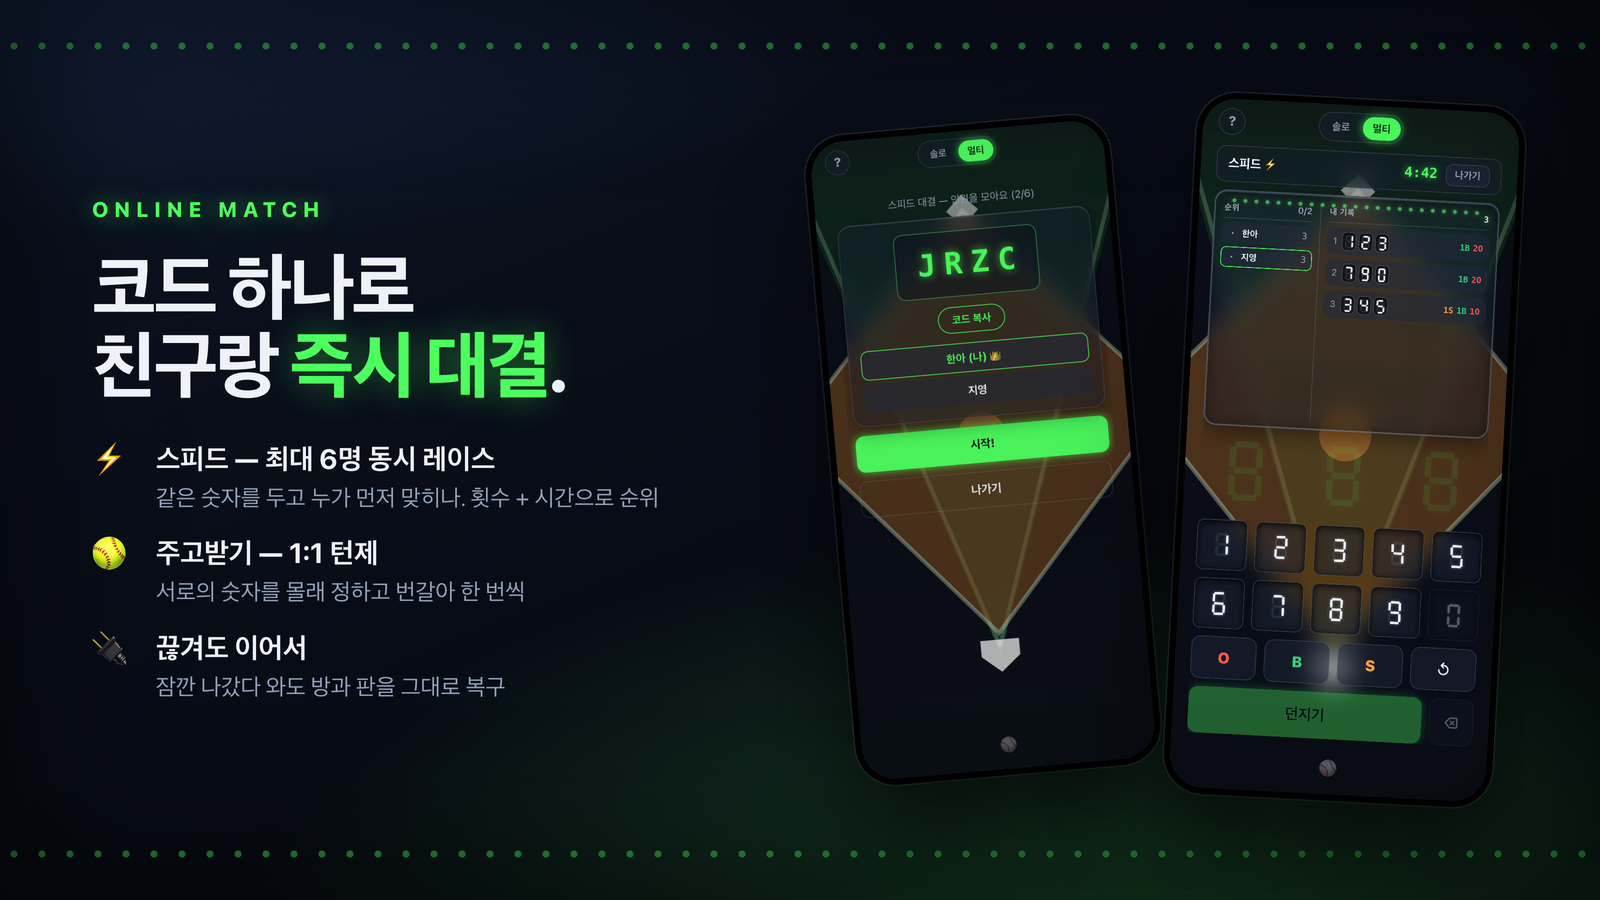
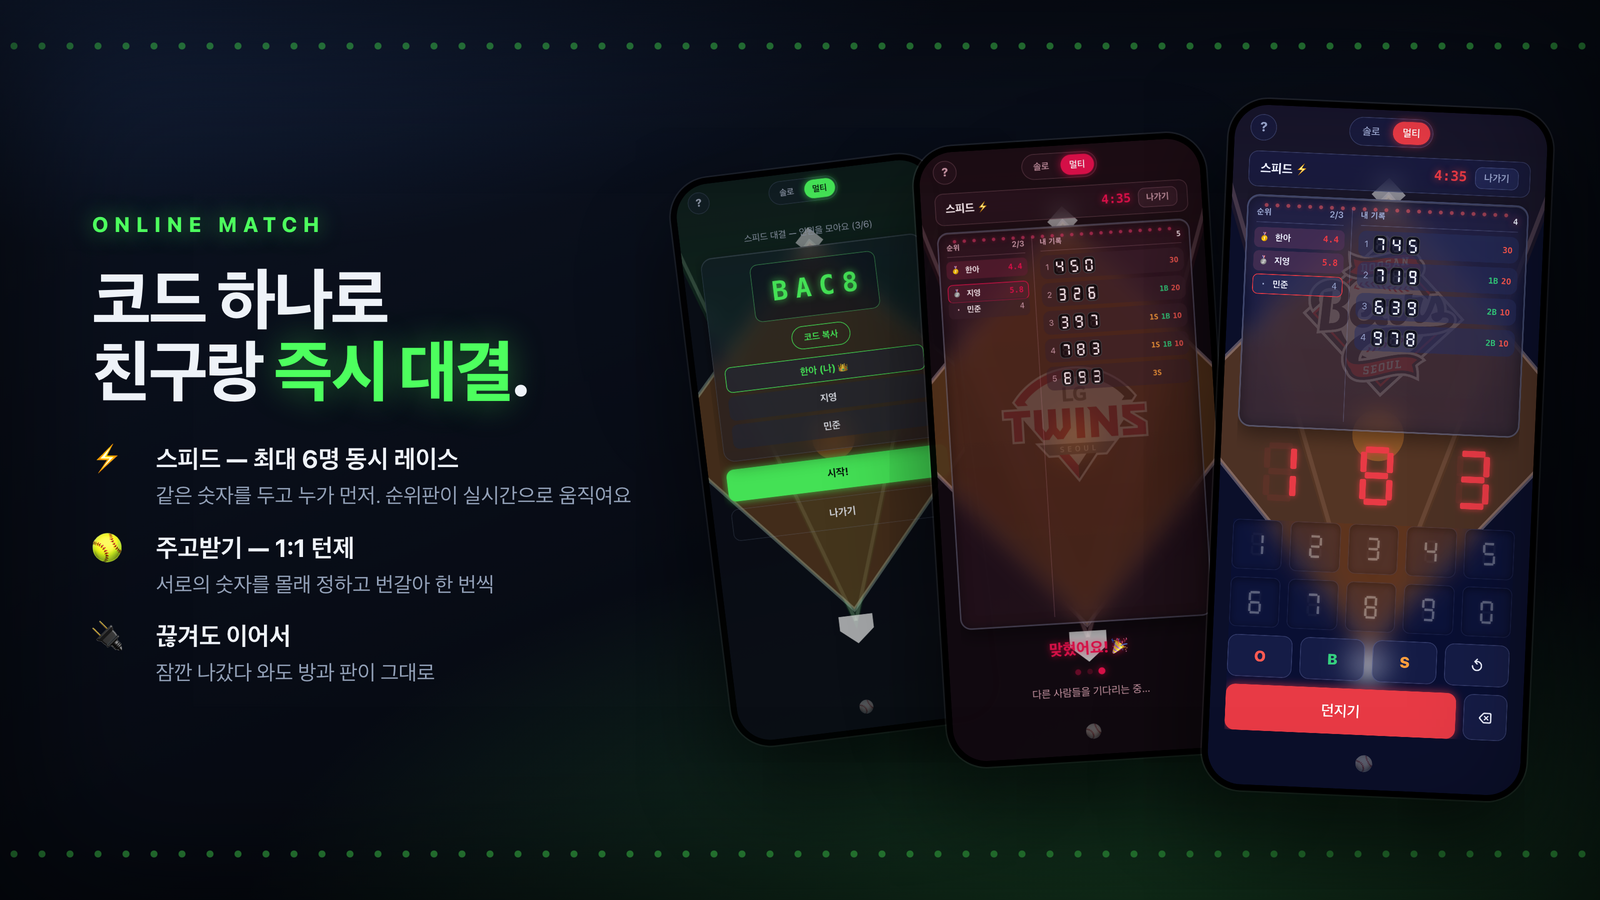
에셋: 온라인 카드를 3인 대전 + 테마 다른 두 화면으로 교체
- 3명(한아/지영/민준) 실제 스피드 대전을 돌려 순위판이 채워진 상태로 캡처
- 지영=LG 테마(완주·🥈), 민준=두산 테마(추격 중), 로비는 다크
- store-assets: 08-online-lobby / 09-online-speed-lg / 10-online-speed-doosan

Claude-Session: https://claude.ai/code/session_01PYKM6378HJLRYaUMnYg8Vi

diff --git a/store-assets/twitter/THREAD.md b/store-assets/twitter/THREAD.md
@@ -105,10 +105,11 @@ homerun-bb.vercel.app
 | --- | --- |
 | `01-hero.png` | 타이틀 + 폰 3대(솔로·멀티 메뉴·온라인 스피드) |
 | `02-rule.png` | S·B·O 규칙 + 전광판 기록 클로즈업 |
-| `03-online.png` | 온라인 대결(방 코드 로비 + 스피드 레이스) |
+| `03-online.png` | 온라인 대결 3인(방 코드 로비 + LG 테마 완주 + 두산 테마 추격) |
 | `04-theme.png` | 두산 / LG 구단 테마 이스터에그 |
 | `05-detail.png` | 설정·튜토리얼(자릿수·시도·메모·힌트) |
 | `06-cta.png` | 설치 유도 + 주소 |
 
 원본 스크린샷(1206×2622)은 상위 `store-assets/` 에 —
-`06-theme-doosan.png`, `07-theme-lgtwins.png`, `08-online-speed.png`.
+`06-theme-doosan.png`, `07-theme-lgtwins.png`,
+`08-online-lobby.png`(3인 로비), `09-online-speed-lg.png`, `10-online-speed-doosan.png`.
